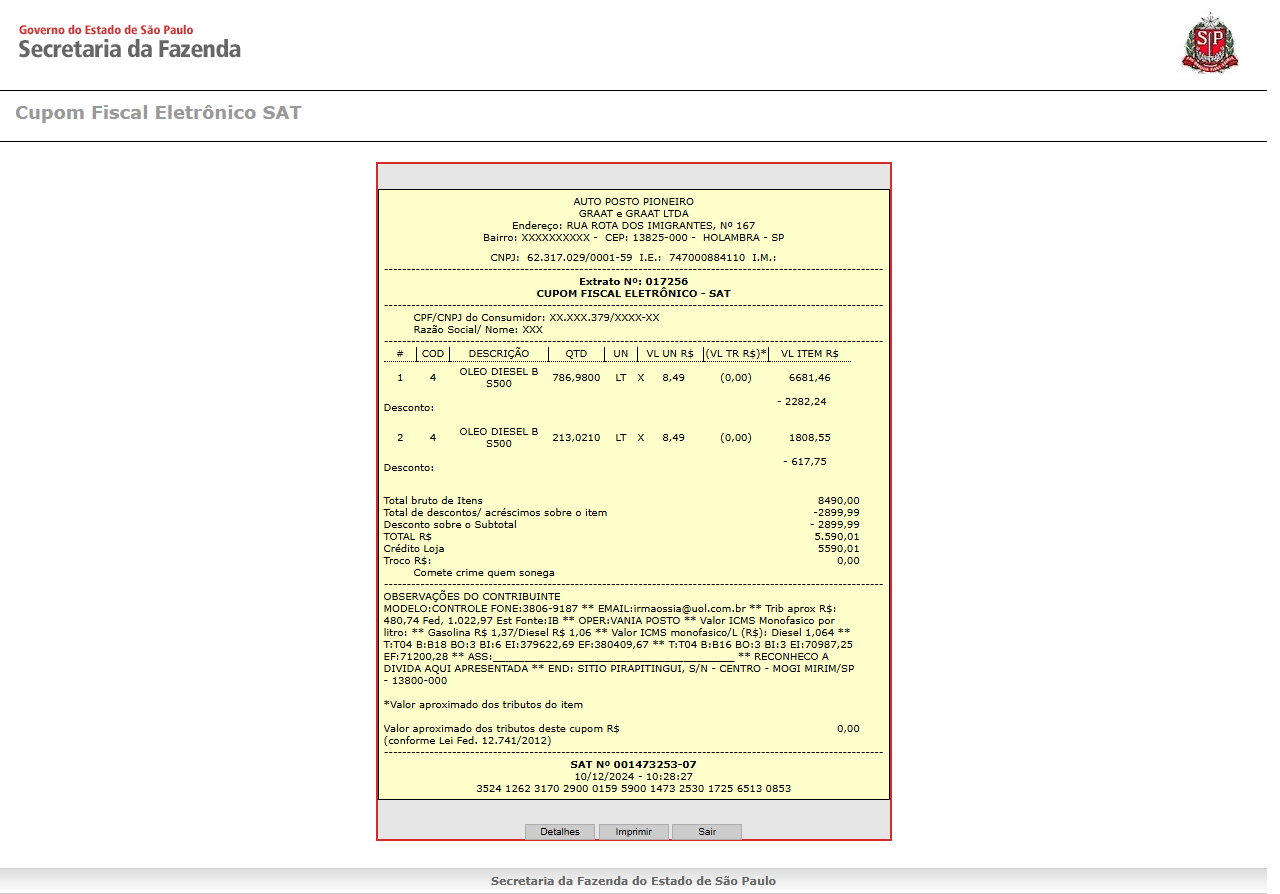
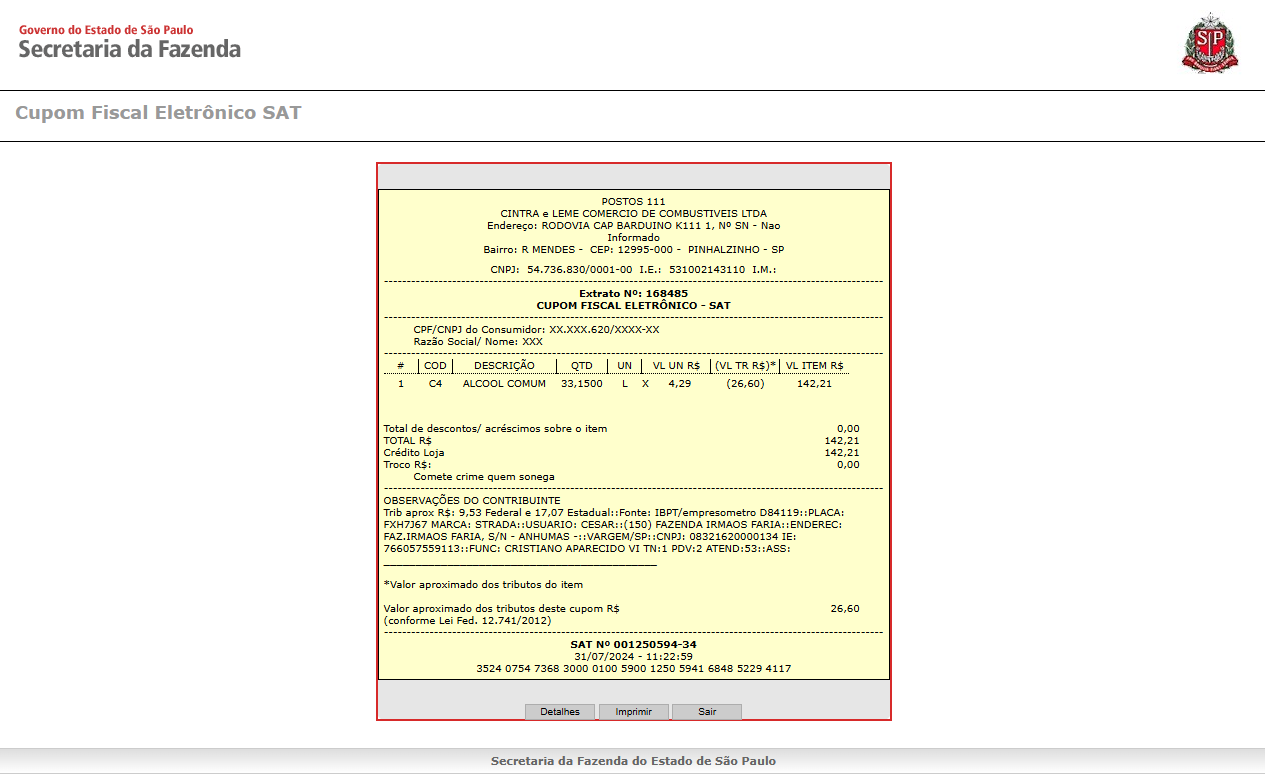
corrigir lentidão

Changed region(s): [[0.0, 0.155, 1.0, 1.0], [0.0, 0.0, 0.9866, 0.155]]

diff --git a/resolverCaptcha.js b/resolverCaptcha.js
@@ -1,30 +1,35 @@
 require('dotenv').config();
-
 const anticaptcha = require('@antiadmin/anticaptchaofficial');
 
-// Configurar a chave da API
 anticaptcha.setAPIKey(process.env.ANTI_CAPTCHA_KEY);
 
-/**
- * Resolve o reCAPTCHA V2 da página SAT da Fazenda-SP
- */
-async function resolverRecaptcha() {
-  const siteKey = '6LeEy8wUAAAAAHN6Wu2rNdku25fyHUVgovX-rJqM'; // fixa pra essa página
-  const websiteURL = 'https://satsp.fazenda.sp.gov.br/COMSAT/Public/ConsultaPublica/ConsultaPublicaCfe.aspx';
+// backoff “adulto”: espera inicial maior, depois polling moderado até 60s
+const sleep = (ms) => new Promise(r => setTimeout(r, ms));
 
-  try {
-    console.log('🔄 Resolvendo reCAPTCHA...');
-    
-    // Resolve reCAPTCHA V2 sem proxy (método correto da API oficial)
-    const gRecaptchaResponse = await anticaptcha.solveRecaptchaV2Proxyless(websiteURL, siteKey);
-    
-    console.log('✅ Token captcha resolvido:', gRecaptchaResponse);
-    return gRecaptchaResponse;
-    
-  } catch (error) {
-    console.error('❌ Erro ao resolver captcha:', error);
-    throw error;
+async function resolverRecaptcha() {
+  const websiteURL = 'https://satsp.fazenda.sp.gov.br/COMSAT/Public/ConsultaPublica/ConsultaPublicaCfe.aspx';
+  const siteKey    = '6LeEy8wUAAAAAHN6Wu2rNdku25fyHUVgovX-rJqM';
+
+  console.log('🔄 Criando task no Anti-Captcha...');
+  const taskId = await anticaptcha.createTask({
+    type: 'NoCaptchaTaskProxyless',
+    websiteURL,
+    websiteKey: siteKey
+  });
+
+  const deadline = Date.now() + 60_000;      // timeout total: 60s
+  await sleep(8_000);                         // espera inicial (8s) — evita “ficar cutucando”
+
+  while (Date.now() < deadline) {
+    const res = await anticaptcha.getTaskResult(taskId);
+    if (res?.status === 'ready' && res.solution?.gRecaptchaResponse) {
+      console.log('✅ reCAPTCHA resolvido.');
+      return res.solution.gRecaptchaResponse;
+    }
+    await sleep(3_000);                       // polling a cada 3s
   }
+
+  throw new Error('Tempo esgotado aguardando reCAPTCHA (60s).');
 }
 
 module.exports = resolverRecaptcha;
